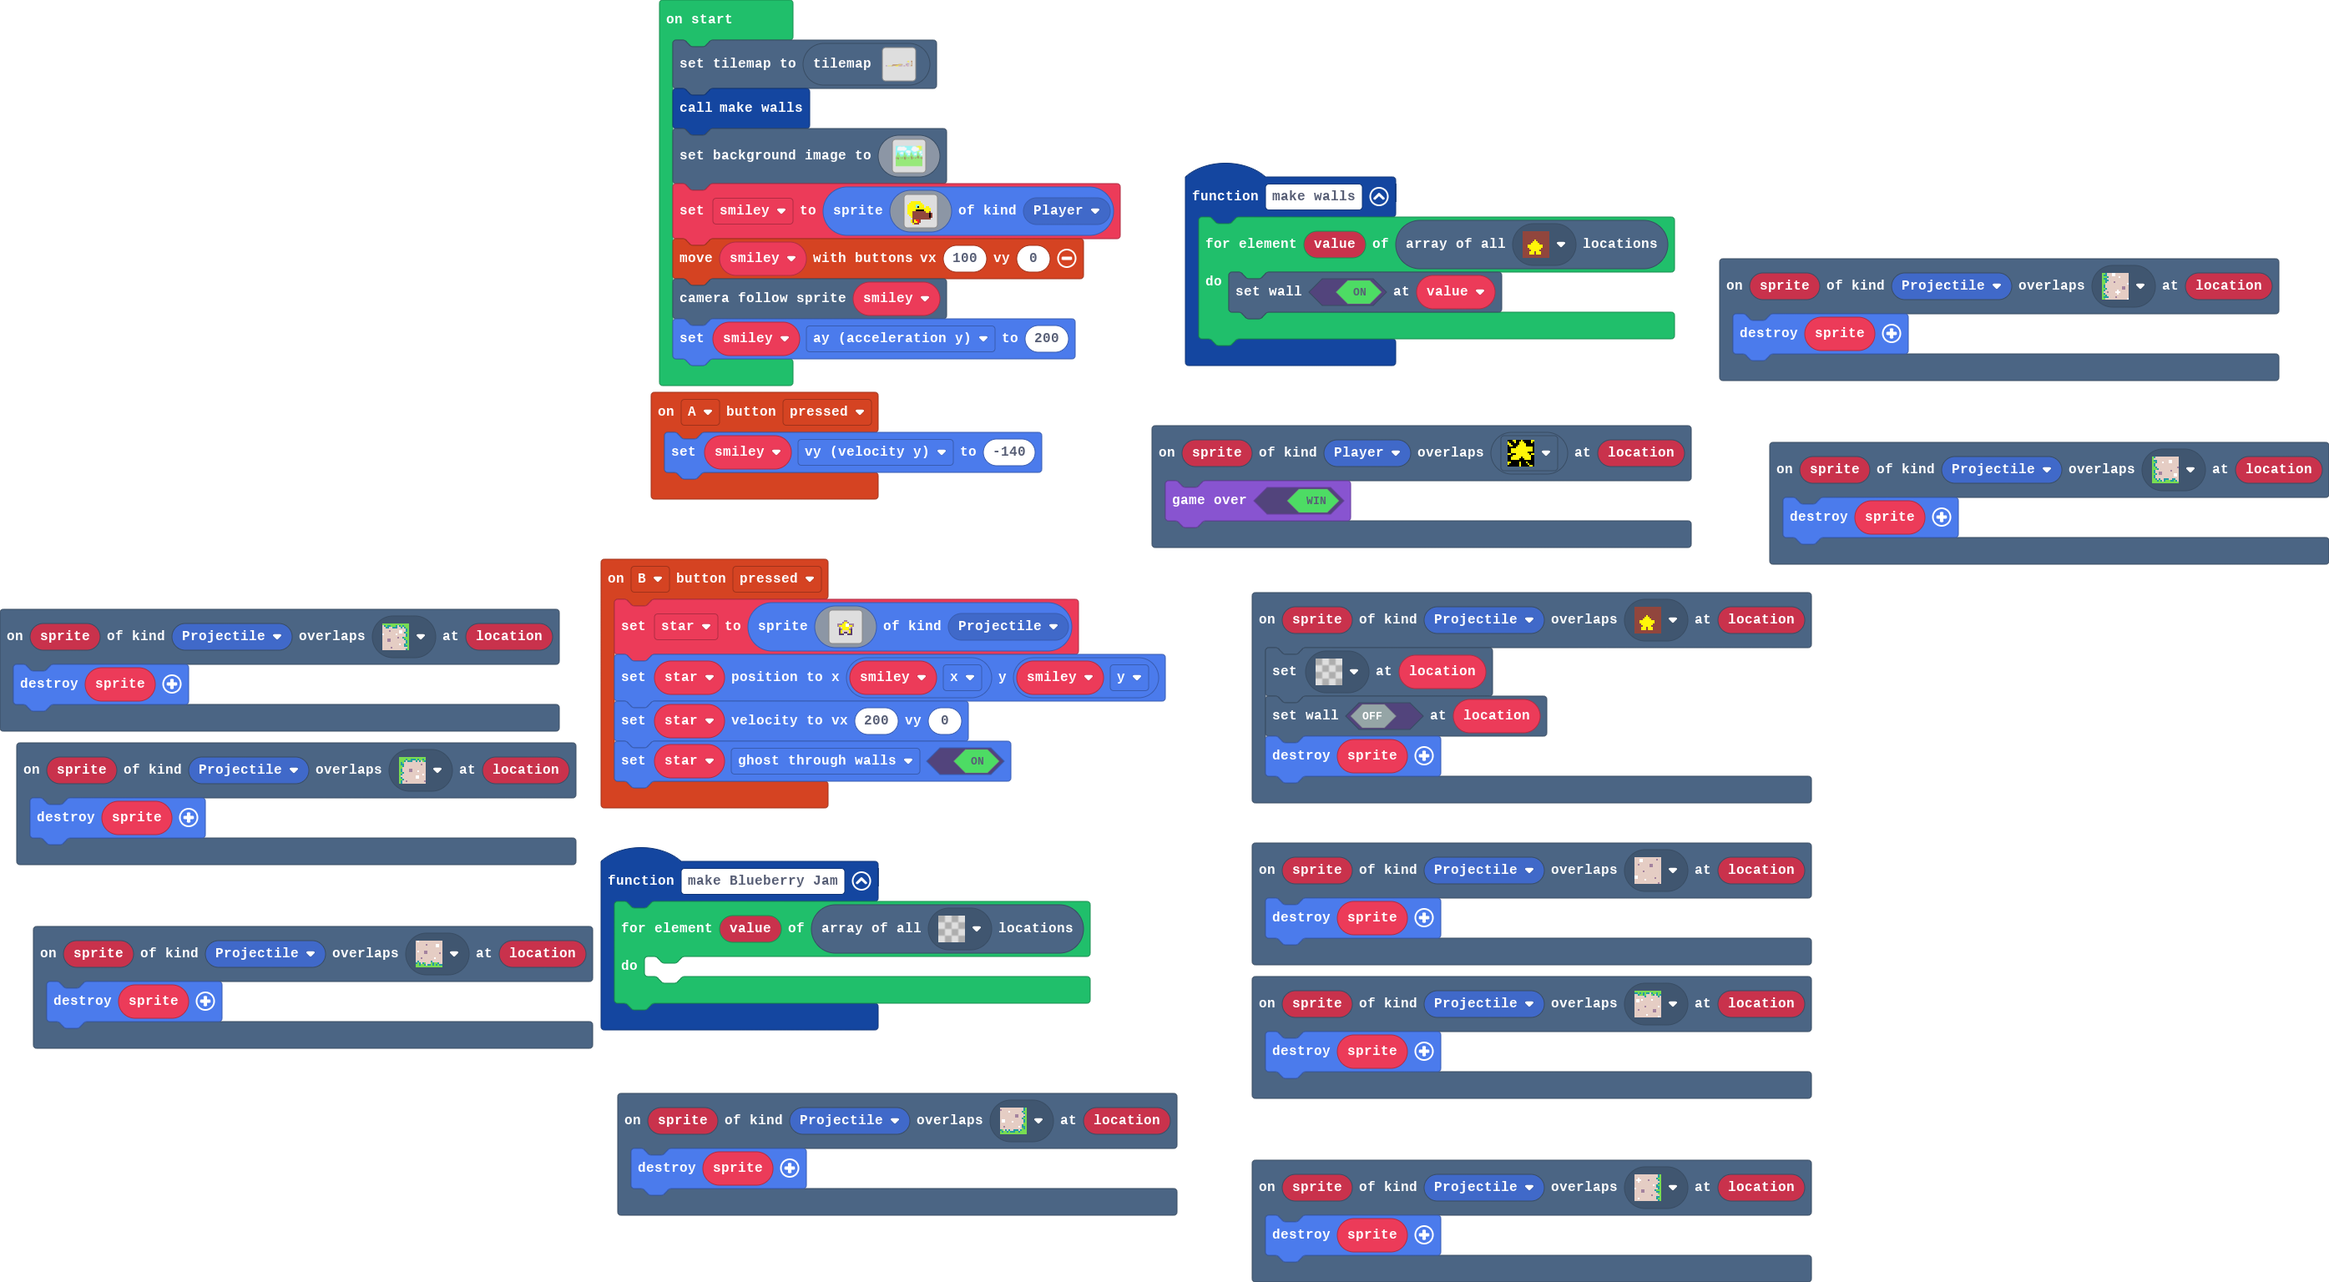
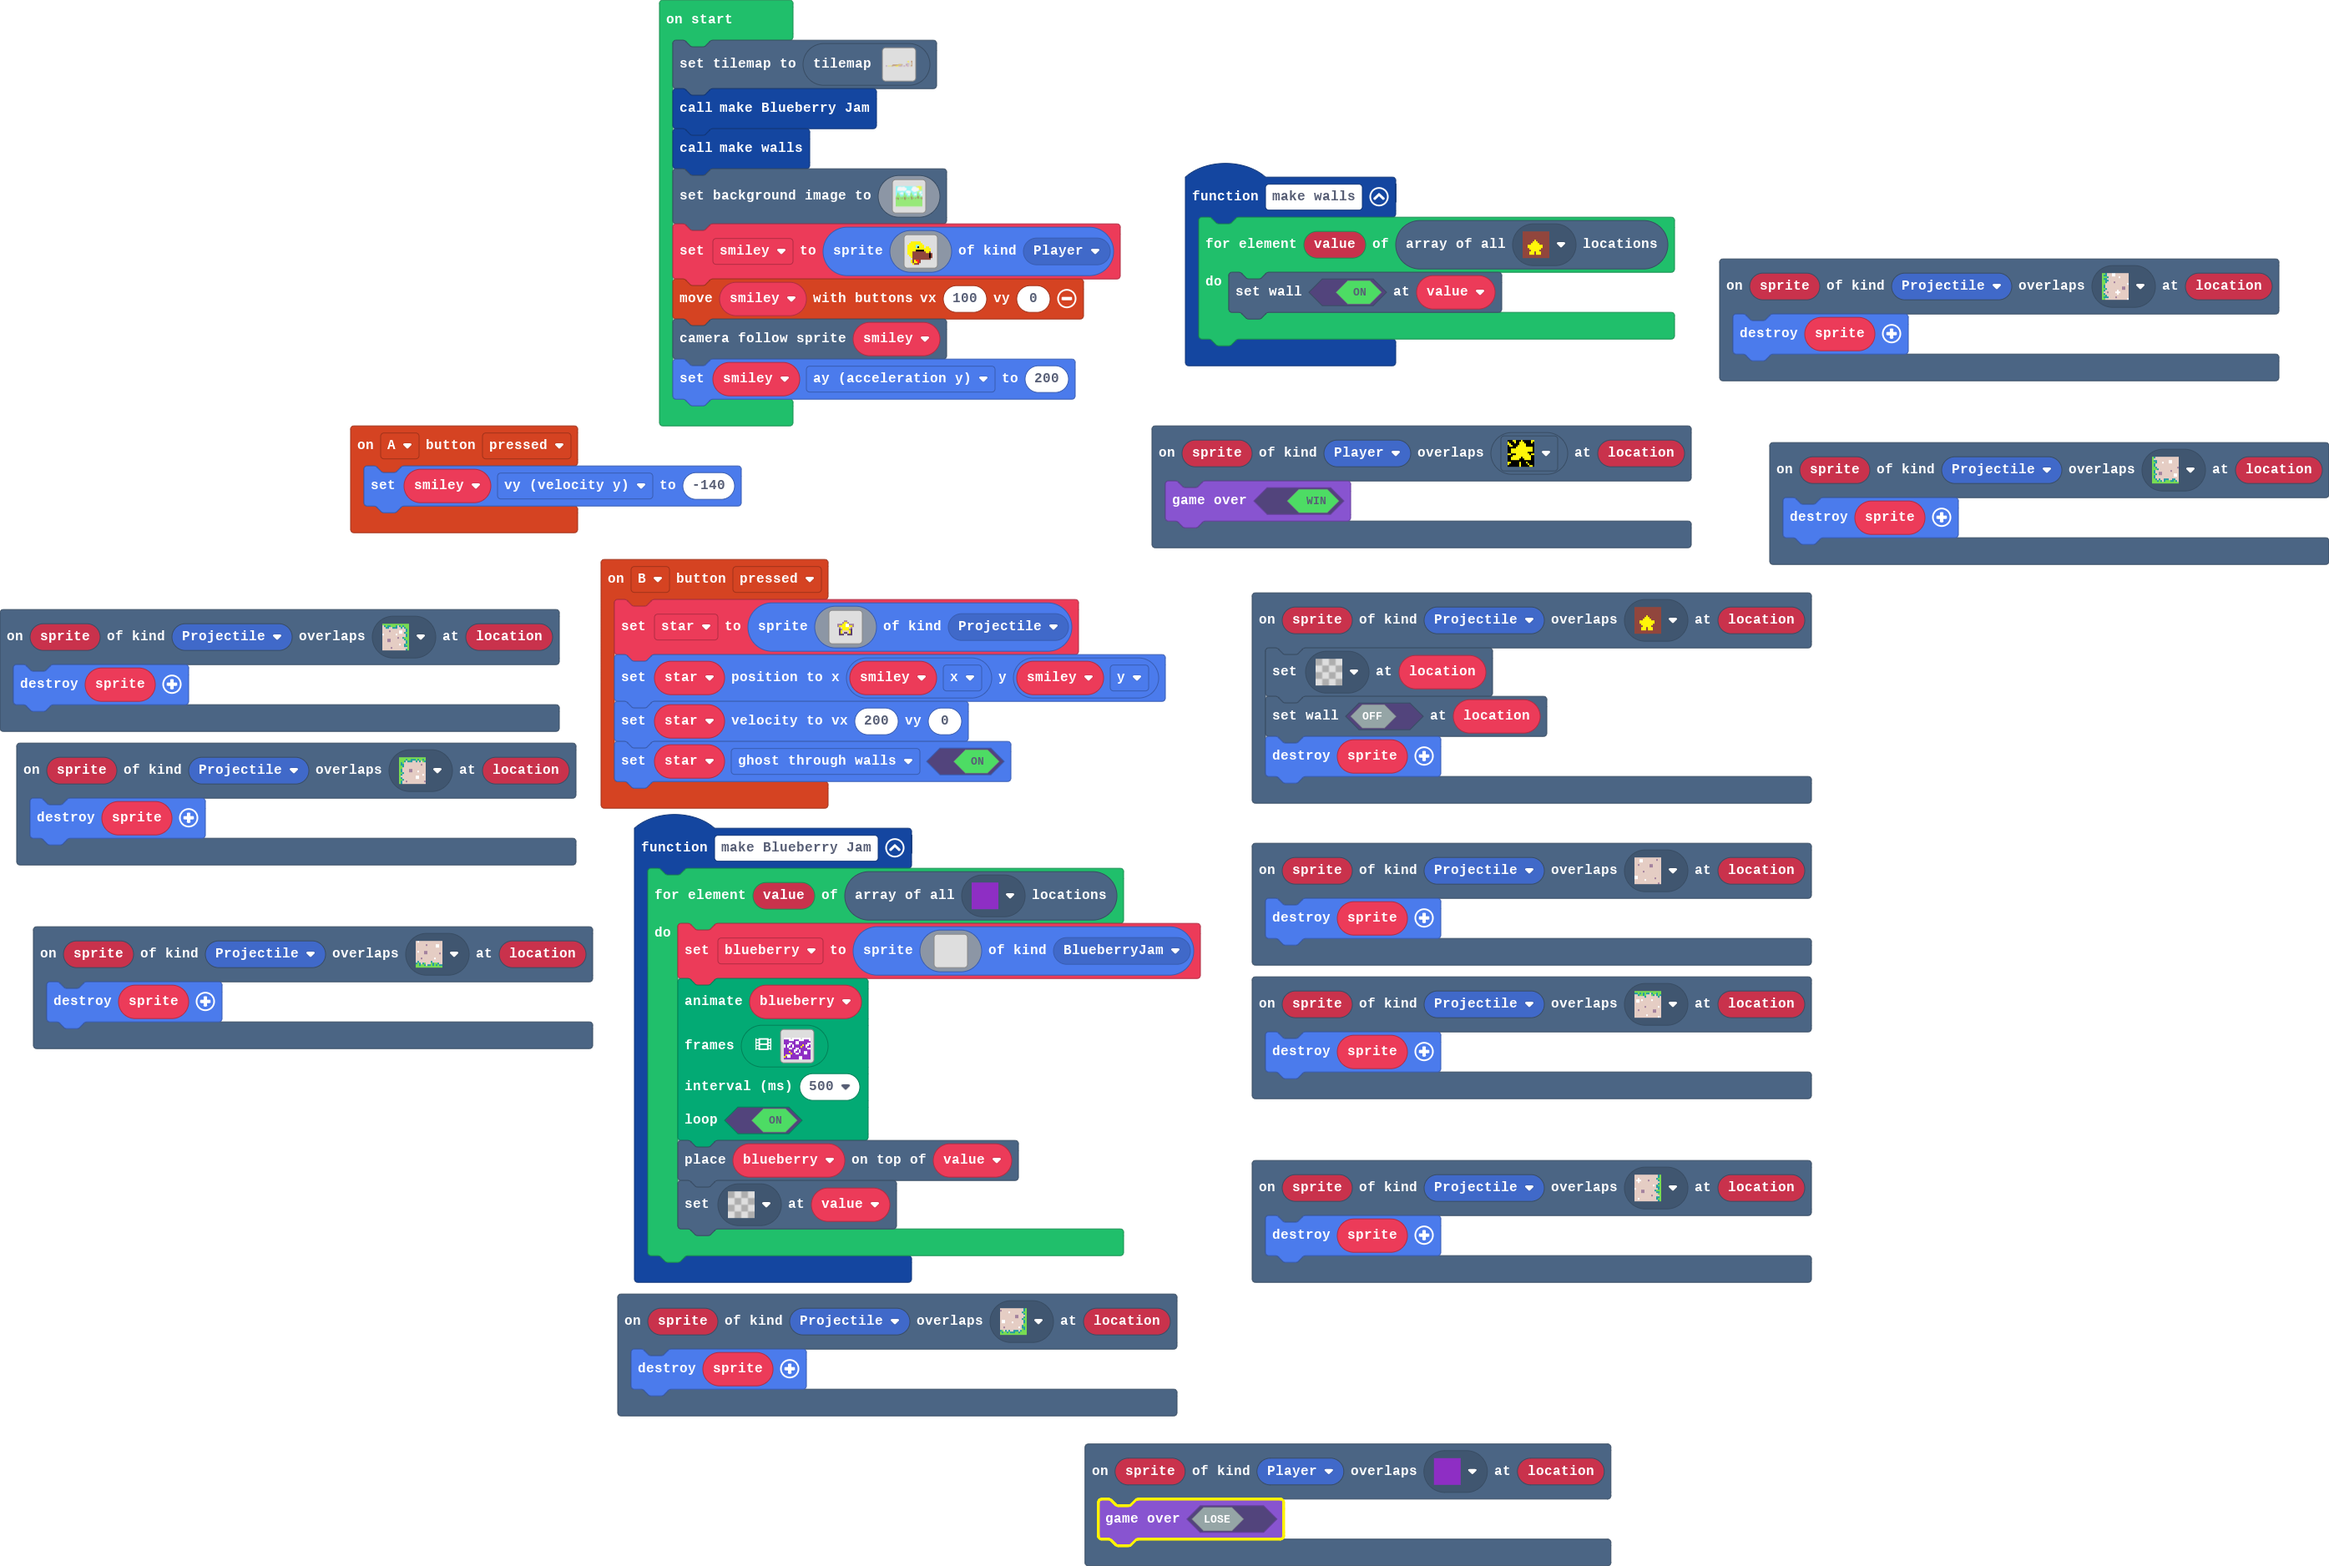
Update main.blocks, main.ts, tilemap.g.jres, tilemap.g.ts

diff --git a/tilemap.g.ts b/tilemap.g.ts
@@ -71,7 +71,7 @@ namespace myTiles {
 . . . . . . . . . . . . . . . . 
 `, [myTiles.transparency16], TileScale.Sixteen);
             case "level2":
[2 lines of base64/hex data omitted]
 ...............................................................2......2.........
 ...............................................................2......2.........
 ...............................................................2......2.........
@@ -81,7 +81,7 @@ namespace myTiles {
 ......................................................................2....222..
 ....................................................................222.....2...
 .............................................................22..22...2222..2...
-............................................................2.......222.....2...
+............................................................2......2222.....2...
 ...........................................................2.2222222222....222..
 .........................................................................22.....
 ........................................................................22......

diff --git a/main.ts b/main.ts
@@ -1,3 +1,6 @@
+namespace SpriteKind {
+    export const BlueberryJam = SpriteKind.create()
+}
 scene.onOverlapTile(SpriteKind.Player, assets.tile`myTile0`, function (sprite, location) {
     game.gameOver(true)
 })
@@ -50,12 +53,74 @@ scene.onOverlapTile(SpriteKind.Projectile, sprites.castle.tilePath4, function (s
 scene.onOverlapTile(SpriteKind.Projectile, sprites.castle.tilePath9, function (sprite, location) {
     sprites.destroy(sprite)
 })
+scene.onOverlapTile(SpriteKind.Player, assets.tile`myTile2`, function (sprite, location) {
+    game.gameOver(false)
+})
 scene.onOverlapTile(SpriteKind.Projectile, sprites.castle.tilePath6, function (sprite, location) {
     sprites.destroy(sprite)
 })
 function make_Blueberry_Jam () {
-    for (let value of tiles.getTilesByType(assets.tile`transparency16`)) {
-    	
+    for (let value of tiles.getTilesByType(assets.tile`myTile2`)) {
+        blueberry = sprites.create(img`
+            . . . . . . . . . . . . . . . . 
+            . . . . . . . . . . . . . . . . 
+            . . . . . . . . . . . . . . . . 
+            . . . . . . . . . . . . . . . . 
+            . . . . . . . . . . . . . . . . 
+            . . . . . . . . . . . . . . . . 
+            . . . . . . . . . . . . . . . . 
+            . . . . . . . . . . . . . . . . 
+            . . . . . . . . . . . . . . . . 
+            . . . . . . . . . . . . . . . . 
+            . . . . . . . . . . . . . . . . 
+            . . . . . . . . . . . . . . . . 
+            . . . . . . . . . . . . . . . . 
+            . . . . . . . . . . . . . . . . 
+            . . . . . . . . . . . . . . . . 
+            . . . . . . . . . . . . . . . . 
+            `, SpriteKind.BlueberryJam)
+        animation.runImageAnimation(
+        blueberry,
+        [img`
+            . . . . . . . . . . . . . . . . 
+            . . . . . . . . . . . . . . . . 
+            . . . . . . . . . . . . . . . . 
+            1 1 1 1 . 1 1 1 1 1 . 1 1 1 1 1 
+            a a a 1 1 1 a a a 1 1 1 a a a 1 
+            a a a a a a a 1 1 a a a a a a a 
+            a a a 1 1 a a 1 1 a a a a a 1 1 
+            1 a 1 1 a 1 a a a a a 5 a 1 1 a 
+            1 a 1 a a 1 a a a a 5 a a 1 a a 
+            a a a 1 1 a a 1 1 a a a a a 1 1 
+            a a a a a a 1 1 a 1 a a a a a a 
+            a a a 5 a a 1 a a 1 a a 1 1 a a 
+            a a a a 5 a a 1 1 a a a 1 1 a a 
+            a 5 1 1 a a a a a a a a a a a a 
+            5 a 1 1 a a a a a 1 1 a a a a a 
+            a a a a a a a a a 1 1 a a a a a 
+            `,img`
+            . . . . . . . . . . . . . . . . 
+            . . 1 . . . . 1 1 . . . . 1 . . 
+            . 1 a 1 . . 1 a a 1 . . 1 a 1 . 
+            1 5 a a 1 . 1 a a 1 . 1 1 a 1 . 
+            1 a 5 a 1 . 1 5 a 1 . 1 a a 1 . 
+            1 a a a 1 1 1 a 5 1 1 1 a a a 1 
+            a a 1 1 a a a a a a a a a a a a 
+            a a 1 1 a a 1 1 a a a a 1 1 a a 
+            a a a a a 1 1 a 1 a a a 1 1 a a 
+            a 5 a 5 a 1 a a 1 a a 5 a a a a 
+            5 a a a 5 a 1 1 a a 5 a a a 5 a 
+            a a 1 1 a a a a a a a 1 1 a a 5 
+            a a 1 1 a a 1 1 a a 1 1 a 1 a a 
+            a a a a a 1 1 a 1 a 1 a a 1 a a 
+            1 1 a 5 a 1 a a 1 a a 1 1 a a a 
+            1 1 a a 5 a 1 1 a a a a a a a a 
+            `],
+        500,
+        true
+        )
+        tiles.placeOnTile(blueberry, value)
+        tiles.setTileAt(value, assets.tile`transparency16`)
     }
 }
 function make_walls () {
@@ -69,9 +134,11 @@ scene.onOverlapTile(SpriteKind.Projectile, sprites.castle.tilePath5, function (s
 scene.onOverlapTile(SpriteKind.Projectile, sprites.castle.tilePath8, function (sprite, location) {
     sprites.destroy(sprite)
 })
+let blueberry: Sprite = null
 let star: Sprite = null
 let smiley: Sprite = null
 tiles.setCurrentTilemap(tilemap`level2`)
+make_Blueberry_Jam()
 make_walls()
 scene.setBackgroundImage(img`
     9999999999999999999999999999999999999999999999999999999999999999999999999999999999999999999999999999999999999999999999999955555999999555555555555555555555999999
